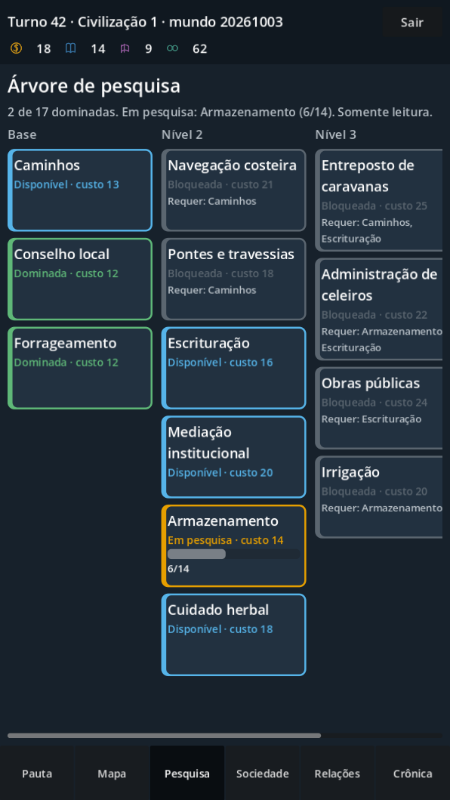
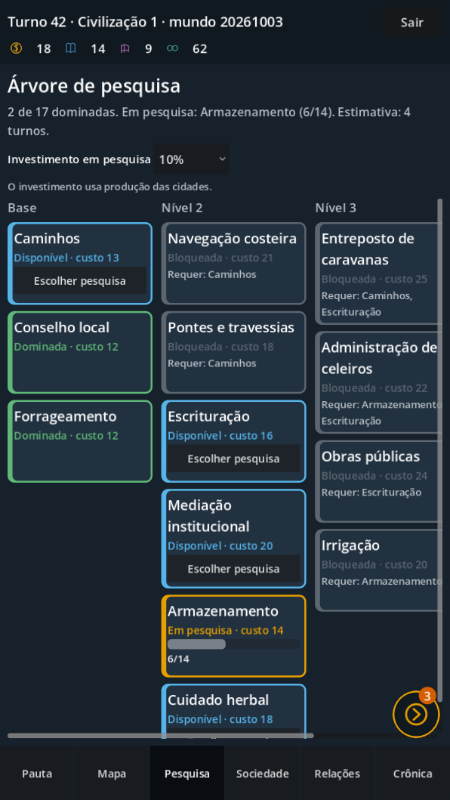
fix(front): PT-BR event tags, integer cohesion term; refresh screenshots

Changed region(s): [[0.0, 0.125, 0.9956, 0.9375]]

diff --git a/client/README.md b/client/README.md
@@ -29,7 +29,7 @@ A tela inicial pede a URL do servidor (padrão `ws://127.0.0.1:8100/ws`). **Cria
 `fixtures/state_snapshot.json` (escrito à mão) e "visão do servidor" abre `fixtures/server_view.json`
 e `fixtures/server_catalog.json`, no formato real de `view_for` e do frame `catalog`.
 
-Capturas em `client/docs/` (`inicio`, `pauta`, `pauta-unidades`, `mapa`, `mapa-pronto`, `pesquisa`, `evento`), geradas com
+Capturas em `client/docs/` (`inicio`, `pauta`, `pauta-unidades`, `mapa`, `mapa-pronto`, `pesquisa`, `sociedade`, `trabalhador`, `cidade`), geradas com
 `--write-movie <pasta existente>/frame.png --quit-after 20 --resolution 720x1280` e pegando o último quadro.
 
 ## O que é real
